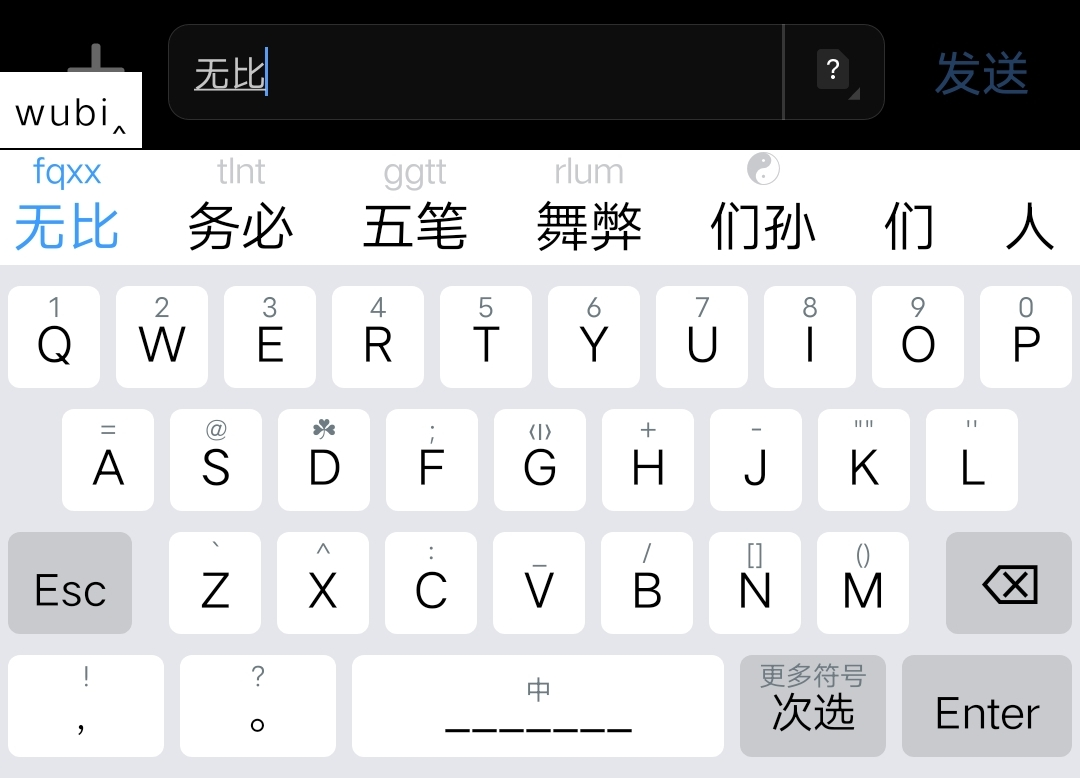
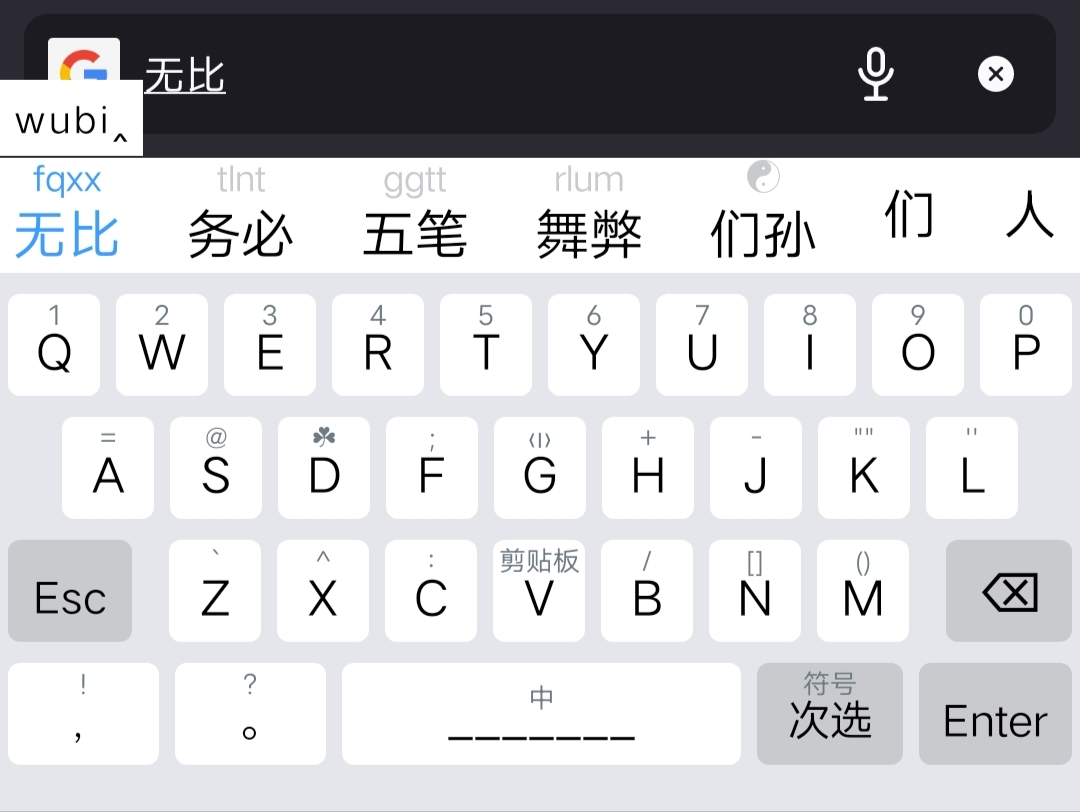
auto

diff --git a/README.md b/README.md
@@ -4,5 +4,6 @@
 ### weasel.custom.yaml for Win
 <div align=left><img src="https://raw.githubusercontent.com/jacyl4/rime_wubi/main/screenshot/weasel.png" width="500">
 
-### Z_Tongwen.trime.yaml for Android
+### trime.custom.yaml for Android
 <div align=left><img src="https://raw.githubusercontent.com/jacyl4/rime_wubi/main/screenshot/trime.jpg" width="500">
+空格下滑隐藏键盘
